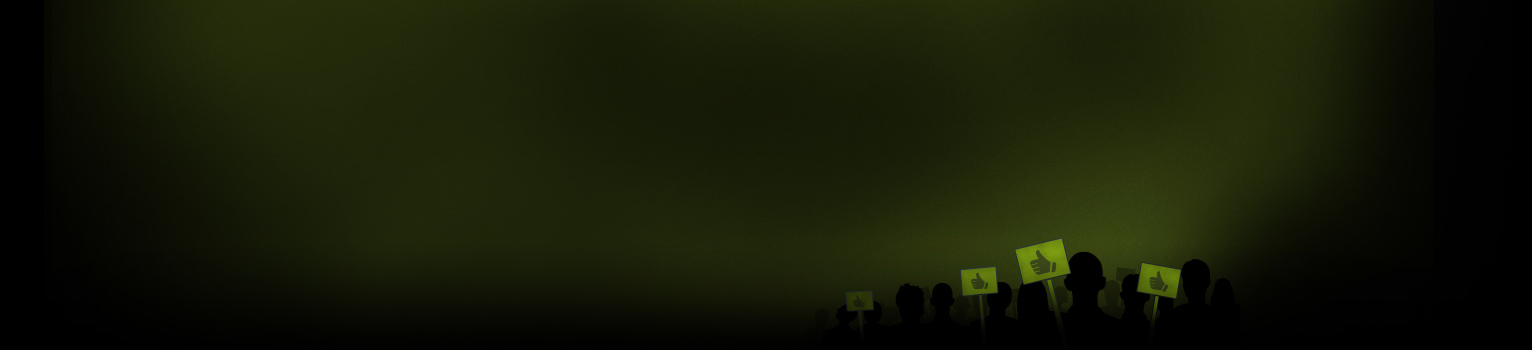
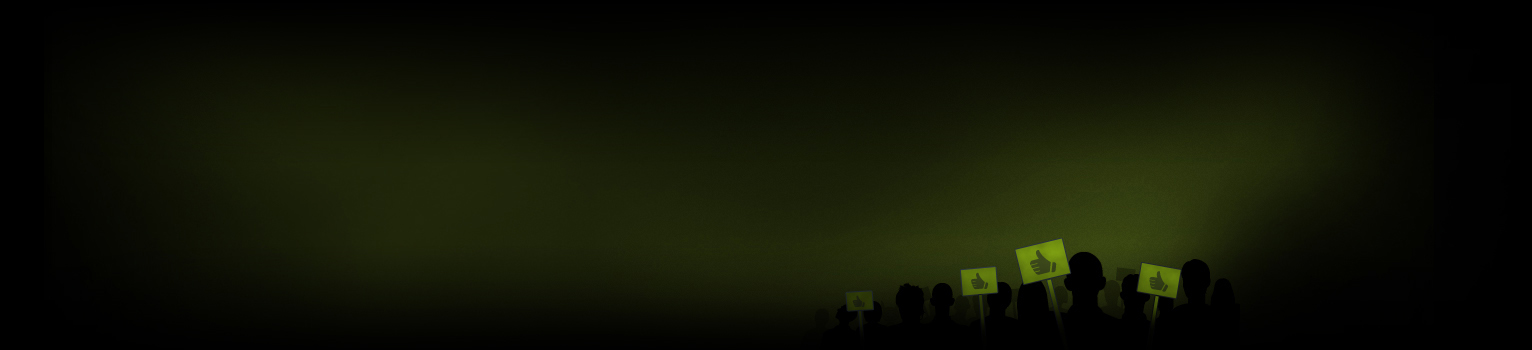
no message

Changed region(s): [[0.0614, 0.0, 0.9204, 0.2286]]

diff --git a/index.html b/index.html
@@ -119,7 +119,7 @@
 			</div>
 		</div><!-- END SLIDER -->
 
-		<div class="container slider-sw">
+		<!--<div class="container slider-sw">
 			<div class="u-max-full-width">
 				<div class="slider slider-nav">
 					<div class="itm"><img src="images/background.png" width="100%">
@@ -135,7 +135,7 @@
 						<p translate="headline.guns"></p>
 					</div>
 				</div>
-			</div>
+			</div>-->
 			<script type="text/javascript">
 				$('.slider-for').slick({
 					autoplay: true,
@@ -159,7 +159,7 @@
 		</div>
 	</div> <!-- END MAIN HEADER -->
 
-	<div class="news" id="news">
+<!--	<div class="news" id="news">
 		<div class="container u-max-full-width">
 			<div class="row">
 				<h2 class="uppercase" translate="news.title"></h2>
@@ -186,15 +186,7 @@
 				</div>
 			</div>
 		</div>
-	</div>
-
-	<div class="main-greenlight">
-		<div class="container greenlight">
-			<div class="u-max-full-width">
-				<a href="#"><img src="images/greenlight-pickup.png" alt="thumb up for Void Clash" width="70%"></a>
-			</div>
-		</div>
-	</div>
+	</div>-->
 
 	<div class="game-concept" id="game">
 		<div class="container u-max-full-width">
@@ -234,6 +226,15 @@
 			</div> <!-- END ROW -->
 		</div> <!-- END CONTAINER -->
 	</div> <!-- END GAME CONCEPT -->
+
+
+	<div class="main-greenlight">
+		<div class="container greenlight">
+			<div class="u-max-full-width">
+				<a href="#"><img src="images/greenlight-pickup.png" alt="thumb up for Void Clash" width="70%"></a>
+			</div>
+		</div>
+	</div>
 
 	<div class="game-mode">
 		<div class="container u-max-full-width">
@@ -278,7 +279,7 @@
 					<img src="images/survivor.svg" alt="Survivor" />
 					<div>
 						<h3 translate="modes.svr.title"></h3>
-						<p></p>
+						<p translate="modes.svr.description"></p>
 					</div>
 				</div>
 
@@ -440,8 +441,6 @@
 	<div class="copyright">
 		<div class="container">
 			<div class="ten columns">
-				<a href="#" translate="footer.lm"></a>
-				<a href="#" translate="footer.pp"></a>
 				<a href="http://steamcommunity.com/greenlight" target="_blank">Greenlight</a>
 				<a href="http://gdl.epitech.eu/" target="_blank">GDL</a>
 				<a href="http://eip.epitech.eu/" target="_blank">EIP</a>

diff --git a/app.js b/app.js
@@ -325,7 +325,7 @@ $translateProvider.translations('fr', {
     doc: "doc"
   },
   headline: {
-    greenlight: "Rejoignez nous et aidez nous à conquérir <strong>Greenlight</strong> !",
+    greenlight: "On est maintenant sur Steam Greenlight™ ! <br>Venez nous apporter votre avis sur le jeu",
     competitive: "Un shoot'em up complètement <br><strong>fou</strong>, <strong>en ligne</strong> et <strong>compétitif</strong>.",
     user_friendly: "Une interface complète et <strong>intuitive</strong>.",
     guns: "Découvrez le système d'arme totallement <strong>badass</strong> !",

diff --git a/css/skeleton.css b/css/skeleton.css
@@ -469,7 +469,7 @@ hr {
   height: 100%;
   display: block;
   position: relative;
-  background: url('../images/background.png');
+  background-image: url('../images/bg2.jpg');
   background-size: cover;
 }
 
@@ -478,6 +478,7 @@ hr {
   height: 100%;
   display: block;
   position: relative;
+  background-color: black;
   background: url('../images/bg2.jpg');
   background-size: cover;
 }
